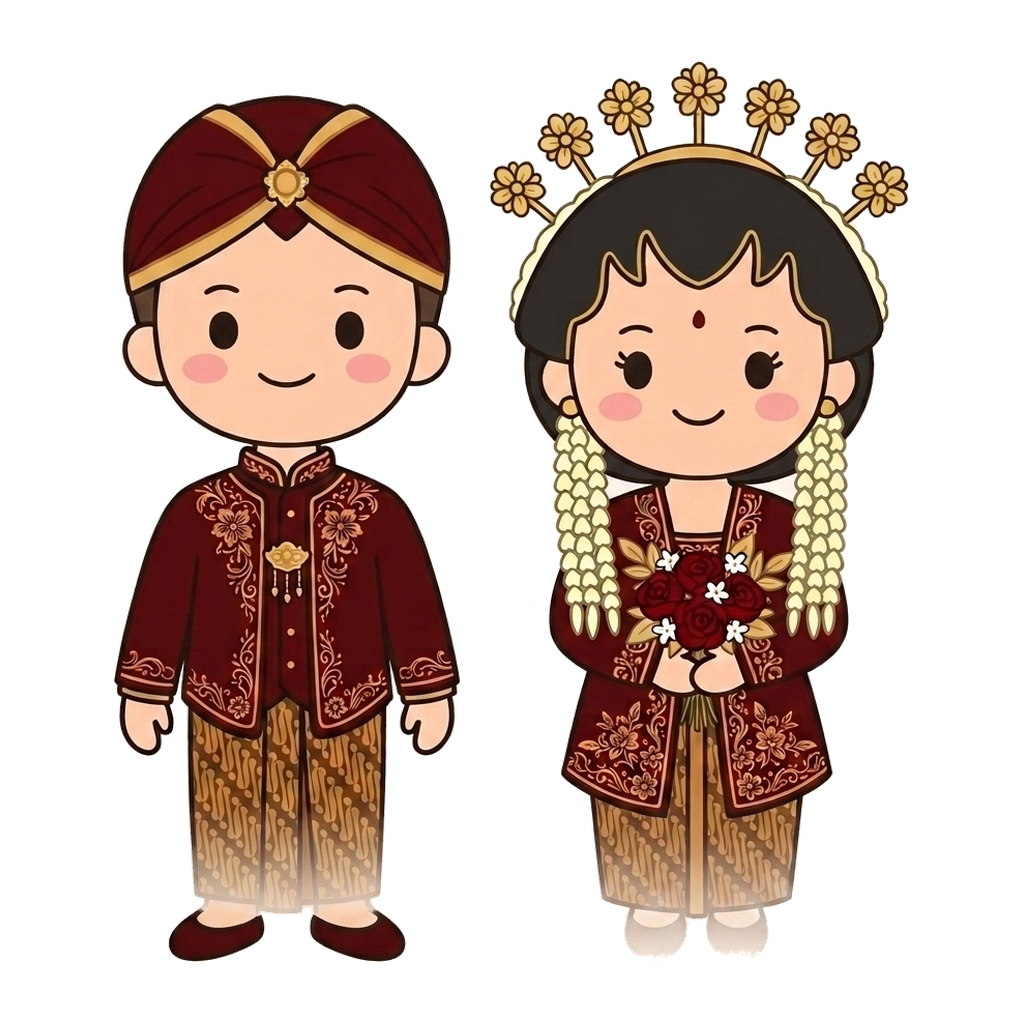
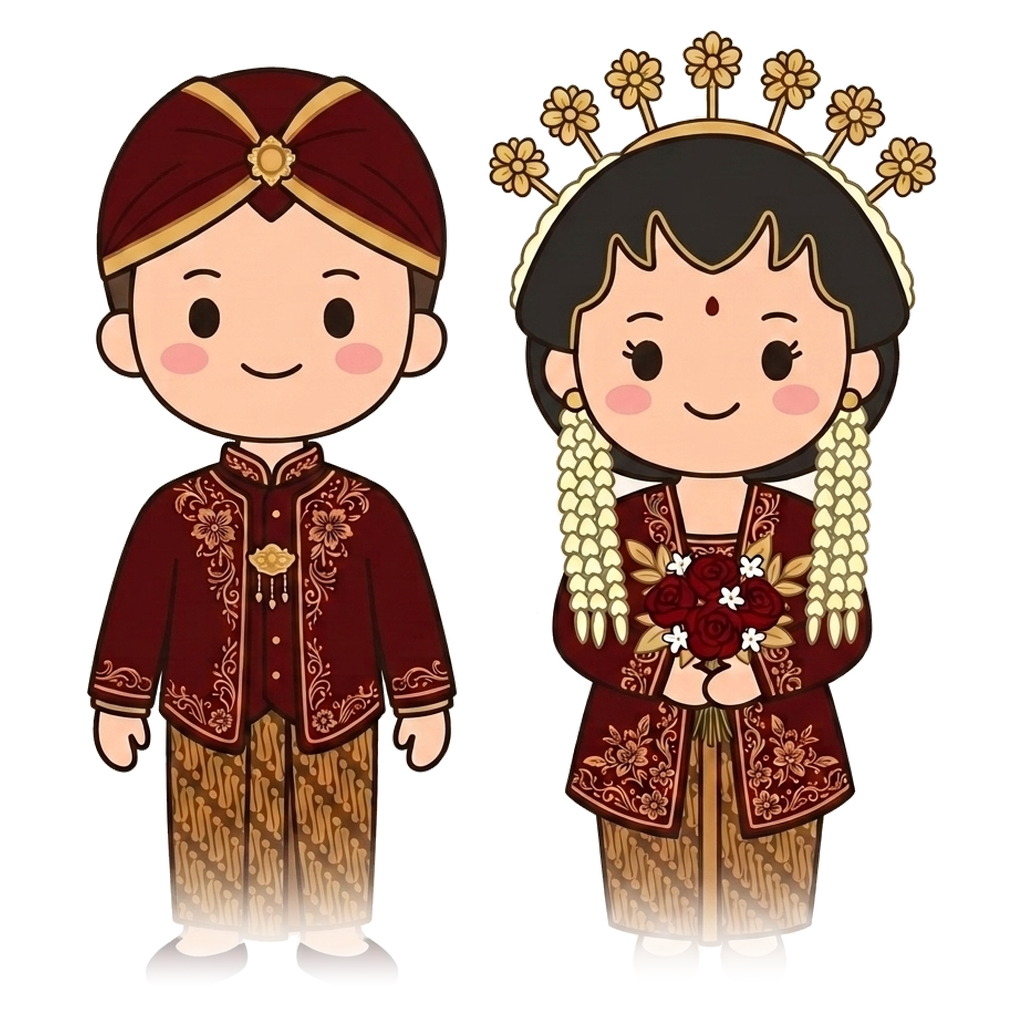
style(undangan_tf_15): remove gate couple frame border and use seamless faded chibi cutout

diff --git a/undangan_tf_15/index.html b/undangan_tf_15/index.html
@@ -189,11 +189,14 @@
 
         <div class="w-full max-w-[320px] mx-auto my-auto flex flex-col items-center pointer-events-auto relative z-20">
 
-          <!-- Circular Ornate Carved Javanese Frame (bingkai_3 + Maroon Couple) -->
+          <!-- Direct Borderless Chibi Couple Illustration (Matches Clean Style Without Frame) -->
           <div
-            class="relative w-[166px] sm:w-[186px] aspect-[1040/1026] mx-auto mb-2 flex items-center justify-center gate-anim-frame-photo">
-            <img src="asset/img/mempelai/mempelai_berbingkai.png" alt="Mempelai Raka &amp; Sinta"
-              class="w-full h-full object-contain pointer-events-none drop-shadow-[0_10px_28px_rgba(0,0,0,0.85)]"
+            class="relative w-[178px] sm:w-[198px] aspect-square mx-auto mb-1.5 flex items-center justify-center gate-anim-frame-photo">
+            <div
+              class="absolute inset-1 rounded-full bg-[radial-gradient(ellipse_at_center,rgba(250,234,219,0.42)_0%,rgba(232,177,94,0.16)_48%,transparent_76%)] pointer-events-none"
+              aria-hidden="true"></div>
+            <img src="asset/img/mempelai/kartun_couple.png" alt="Ilustrasi Mempelai Raka &amp; Sinta"
+              class="relative z-10 w-full h-full object-contain pointer-events-none drop-shadow-[0_10px_24px_rgba(0,0,0,0.65)]"
               decoding="async">
           </div>
 
